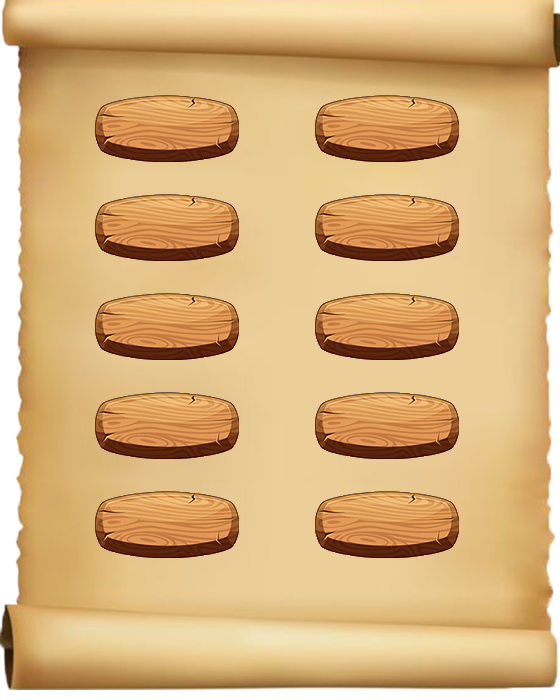
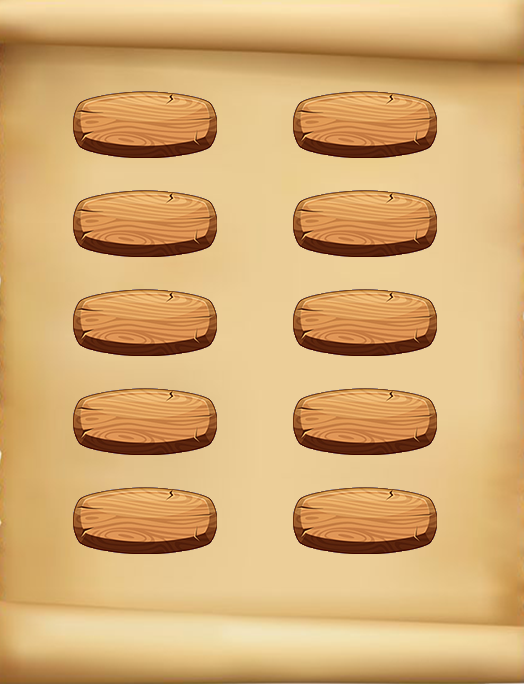
Little Changes :)))

diff --git a/src/View/Graphic/Menu.java b/src/View/Graphic/Menu.java
@@ -42,7 +42,7 @@ public class Menu
         this.stage = stage;
         try
         {
-            Image image = new Image(new FileInputStream("C:\\Users\\mahsa\\Desktop\\farm_frenzi_project\\src\\Resources\\Graphic\\menu.jpg")
+            Image image = new Image(new FileInputStream("E:\\AP\\Project\\src\\Resources\\Graphic\\MenuBackground.jpg")
                     , WIDTH, HEIGHT, false, true);
             ImageView imageView = new ImageView(image);
             imageView.setY(0);
@@ -66,9 +66,9 @@ public class Menu
             @Override
             public void handle(MouseEvent event)
             {
-                if( doesChoosePlayer )
+                //if( doesChoosePlayer )
                     stage.setScene(startُScene.getScene());
-                else
+                /*else
                 {
                     Alert alert = new Alert(Alert.AlertType.ERROR);
                     alert.setHeaderText("Player hasn't been chosen!");
@@ -76,7 +76,7 @@ public class Menu
                     ButtonType b1 = new ButtonType("OK");
                     alert.getButtonTypes().setAll(b1);
                     alert.showAndWait();
-                }
+                }*/
             }
         });
         Button choosePlayer = new Button("choose player");
@@ -123,8 +123,6 @@ public class Menu
                 });
             }
         });
-        stage.setResizable(false);
-        stage.setFullScreen(true);
         stage.setScene(scene);
     }
 

diff --git a/src/View/Graphic/Start.java b/src/View/Graphic/Start.java
@@ -46,7 +46,7 @@ public class Start
             Text[] level = new Text[10];
             for( int i = 0 ; i < 10 ; i++ )
             {
-                level[i] = new Text( ( i % 2) * ( Menu.WIDTH - 200 ) + ( ( i + 1 ) % 2 ) * 200 , 200 + i / 2 * 50
+                level[i] = new Text( ( i % 2) * ( Menu.WIDTH - 200 ) + ( ( i + 1 ) % 2 ) * 200 , 120 + i / 2 * 100
                         , "Level "+Integer.toString(i + 1));
                 level[i].setFont(Font.font("Segoe Print", FontWeight.BOLD, FontPosture.REGULAR,30));
                 group.getChildren().addAll(level[i]);

diff --git a/src/Main.java b/src/Main.java
@@ -29,6 +29,8 @@ public class Main extends Application
         stage = primaryStage;
         Menu menu = new Menu(primaryStage);
         menu.passMenuInstance(menu);
+        primaryStage.setFullScreen(true);
+        primaryStage.setResizable(false);
         primaryStage.setTitle("Farm Frenzy");
         primaryStage.show();
     }
